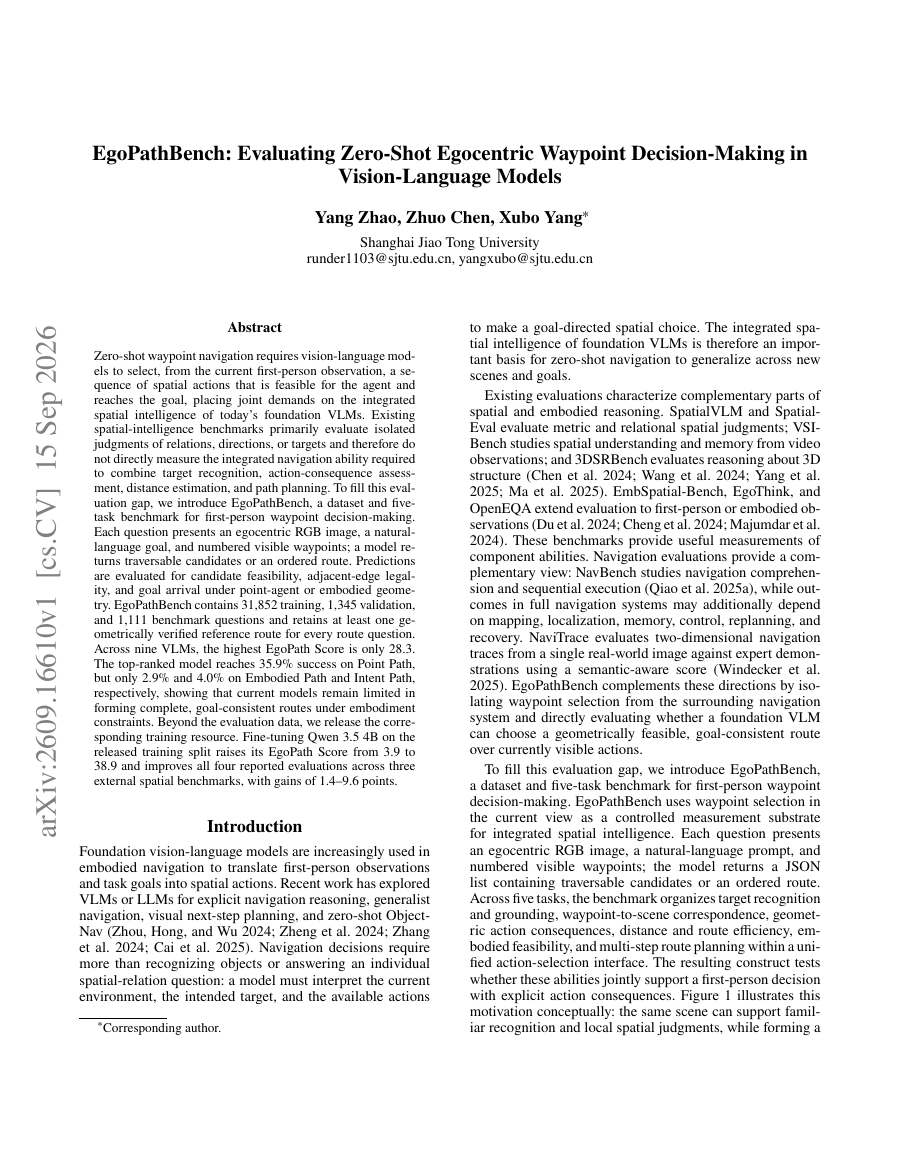
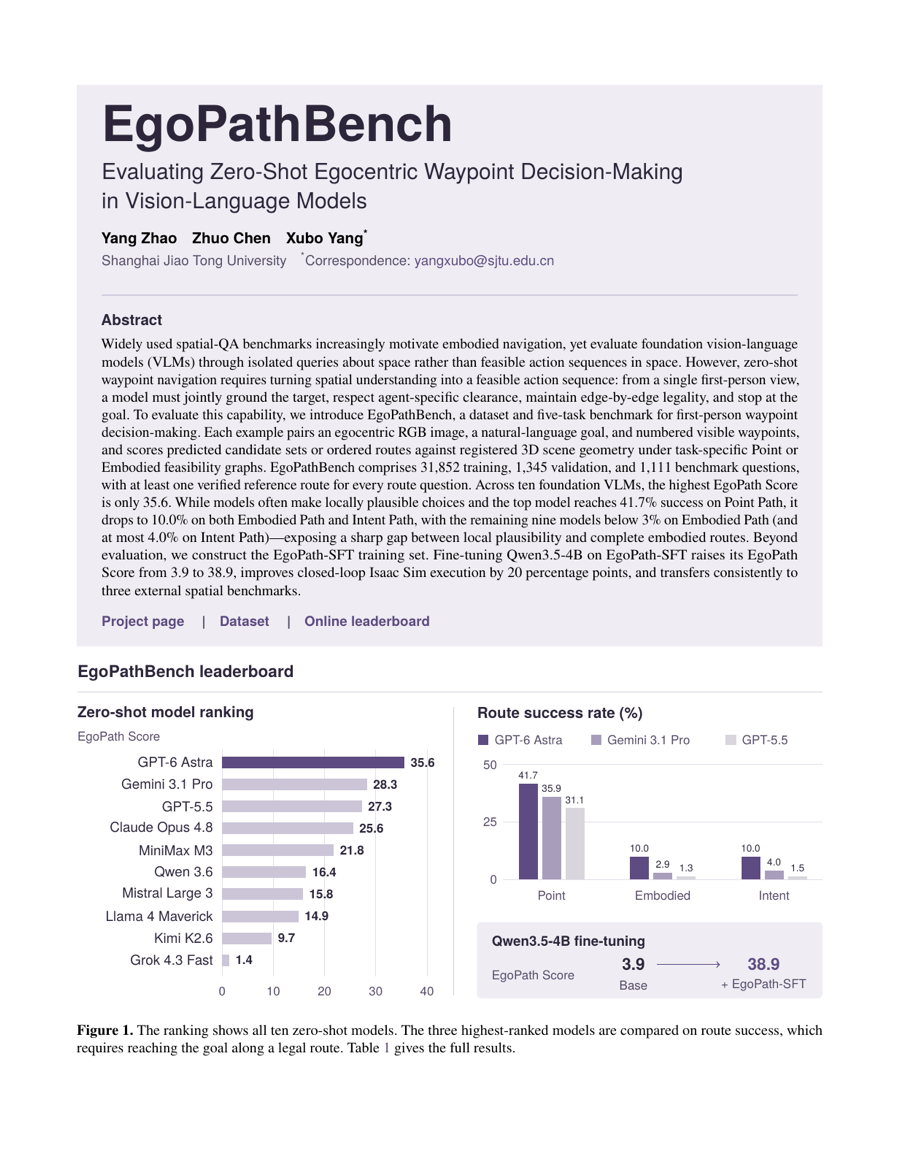
更新主页论文信息与 EmbodiedStudio 项目入口

diff --git a/site/index.html b/site/index.html
@@ -13,7 +13,7 @@
   <title>赵阳 Yang Zhao · 学术主页</title>
   <link rel="icon" href="assets/favicon.svg" type="image/svg+xml">
   <script src="theme.js?v=20261015"></script>
-  <link rel="stylesheet" href="styles.css?v=embodiedstudio-20261124">
+  <link rel="stylesheet" href="styles.css?v=publications-20261124">
   <noscript><style>#spatial-canvas,.scene-views,.scene-controls,#scene-hint,.scene-disclosure,.language-toggle,.citation-button{display:none}.scene-fallback{display:block;width:100%;height:220px;object-fit:contain}</style></noscript>
   <script src="script.js?v=living-folio-20261028" defer></script>
   <script src="motion.js?v=20261028" defer></script>
@@ -88,11 +88,11 @@
         </a>
         <div class="paper-content">
           <div class="paper-meta"><span class="paper-badge" data-zh="arXiv · 待公开" data-en="arXiv · Awaiting announcement">arXiv · 待公开</span><span data-zh="具身仿真 · 场景生成" data-en="EMBODIED SIMULATION · SCENE GENERATION">具身仿真 · 场景生成</span></div>
-          <h3><a href="https://embodiedstudio.github.io/?view=paper" target="_blank" rel="noopener noreferrer">EmbodiedStudio: A Task-Driven Simulation Generation Platform for Embodied Learning and Evaluation</a></h3>
+          <h3><a href="https://embodiedstudio.github.io/" target="_blank" rel="noopener noreferrer">EmbodiedStudio: A Task-Driven Simulation Generation Platform for Embodied Learning and Evaluation</a></h3>
           <p class="authors"><strong>Yang Zhao</strong>, Xubo Yang</p>
           <p class="paper-description" data-zh="从自然语言任务生成可交互的仿真环境，在仿真反馈下联合编写场景、任务、机器人行为与评分程序，并记录可回放的执行轨迹。" data-en="A task-driven platform that uses simulation feedback to jointly generate interactive scenes, task definitions, robot behaviors, and scoring programs, while recording replayable robot trajectories.">从自然语言任务生成可交互的仿真环境，在仿真反馈下联合编写场景、任务、机器人行为与评分程序，并记录可回放的执行轨迹。</p>
           <div class="paper-links">
-            <a href="https://embodiedstudio.github.io/?view=paper" target="_blank" rel="noopener noreferrer"><span data-zh="项目主页" data-en="Project">项目主页</span></a>
+            <a href="https://embodiedstudio.github.io/" target="_blank" rel="noopener noreferrer"><span data-zh="项目主页" data-en="Project">项目主页</span></a>
             <a href="https://embodiedstudio.github.io/?view=paper#walkthrough" target="_blank" rel="noopener noreferrer"><span data-zh="讲解视频" data-en="Walkthrough">讲解视频</span></a>
             <a href="https://github.com/Runder-sun/EmbodiedStudio" target="_blank" rel="noopener noreferrer"><span data-zh="代码" data-en="Code">代码</span></a>
           </div>
@@ -100,18 +100,19 @@
       </article>
 
       <article class="paper" id="paper-ego">
-        <a class="paper-visual ego-visual" href="assets/egopathbench-first-page.png" target="_blank" rel="noopener noreferrer" aria-label="查看 EgoPathBench 论文首页大图" data-label-zh="查看 EgoPathBench 论文首页大图" data-label-en="View the full-size first page of EgoPathBench">
-          <div class="paper-image-wrap"><img src="assets/egopathbench-first-page.png" alt="EgoPathBench 论文完整首页" data-label-zh="EgoPathBench 论文完整首页" data-label-en="Complete first page of the EgoPathBench paper" width="900" height="1165" loading="lazy"></div>
+        <a class="paper-visual ego-visual" href="assets/egopathbench-first-page.png?v=2" target="_blank" rel="noopener noreferrer" aria-label="查看 EgoPathBench 论文首页大图" data-label-zh="查看 EgoPathBench 论文首页大图" data-label-en="View the full-size first page of EgoPathBench">
+          <div class="paper-image-wrap"><img src="assets/egopathbench-first-page.png?v=2" alt="EgoPathBench 论文完整首页" data-label-zh="EgoPathBench 论文完整首页" data-label-en="Complete first page of the EgoPathBench paper" width="900" height="1165" loading="lazy"></div>
           <div class="image-caption"><span data-zh="论文首页 · 放大" data-en="First page · Zoom">论文首页 · 放大</span><span aria-hidden="true">↗</span></div>
         </a>
         <div class="paper-content">
           <div class="paper-meta"><span class="paper-badge">arXiv 2026</span><span data-zh="具身导航 · 评测基准" data-en="EMBODIED NAVIGATION · BENCHMARK">具身导航 · 评测基准</span></div>
           <h3><a href="https://egopathbench.github.io/EgoPathBench/" target="_blank" rel="noopener noreferrer">EgoPathBench: Evaluating Zero-Shot Egocentric Waypoint Decision-Making in Vision-Language Models</a></h3>
           <p class="authors"><strong>Yang Zhao</strong>, Zhuo Chen, Xubo Yang</p>
-          <p class="paper-description" data-zh="从第一视角图像出发，评估视觉语言模型的路径点决策能力，连接目标识别、空间推理与具身约束下的路径规划。" data-en="A benchmark for first-person waypoint decision-making, connecting goal recognition, spatial reasoning, and path planning under embodiment constraints.">从第一视角图像出发，评估视觉语言模型的路径点决策能力，连接目标识别、空间推理与具身约束下的路径规划。</p>
+          <p class="paper-description" data-zh="用单张第一视角图像和三维场景几何，在 1,111 道题上评估十个视觉语言模型的路径点决策。排名第一的模型在点模型路径上的成功率为 41.7%，在具身路径上降至 10.0%。" data-en="A 1,111-question benchmark that uses single egocentric images and 3D scene geometry to evaluate waypoint decisions across ten vision-language models. The top-ranked model reaches 41.7% success on Point Path and 10.0% on Embodied Path.">用单张第一视角图像和三维场景几何，在 1,111 道题上评估十个视觉语言模型的路径点决策。排名第一的模型在点模型路径上的成功率为 41.7%，在具身路径上降至 10.0%。</p>
           <div class="paper-links">
             <a href="https://egopathbench.github.io/EgoPathBench/" target="_blank" rel="noopener noreferrer"><span data-zh="项目主页" data-en="Project">项目主页</span></a>
             <a href="https://arxiv.org/abs/2609.16610" target="_blank" rel="noopener noreferrer"><span data-zh="论文" data-en="Paper">论文</span></a>
+            <a href="https://egopathbench.github.io/EgoPathBench/#leaderboard" target="_blank" rel="noopener noreferrer"><span data-zh="榜单" data-en="Leaderboard">榜单</span></a>
             <a href="https://github.com/EgoPathBench/EgoPathBench" target="_blank" rel="noopener noreferrer"><span data-zh="代码" data-en="Code">代码</span></a>
             <button class="citation-button" data-paper="ego" type="button"><span data-zh="引用" data-en="Cite">引用</span> <span aria-hidden="true">“ ”</span></button>
           </div>
@@ -124,7 +125,7 @@
           <div class="image-caption"><span data-zh="论文首页 · 放大" data-en="First page · Zoom">论文首页 · 放大</span><span aria-hidden="true">↗</span></div>
         </a>
         <div class="paper-content">
-          <div class="paper-meta"><span class="paper-badge">ACM MM 2026 <strong>Oral</strong></span><span data-zh="三维场景生成 · 强化学习" data-en="3D SCENE GENERATION · REINFORCEMENT LEARNING">三维场景生成 · 强化学习</span></div>
+          <div class="paper-meta"><span class="paper-badge">ACM MM 2026 <strong>Oral</strong></span><a class="paper-award" href="https://2026.acmmm.org/site/awards.html" target="_blank" rel="noopener noreferrer" data-zh="杰出论文奖（投稿约前 1%）" data-en="Outstanding Paper Award (≈ Top 1%)">杰出论文奖（投稿约前 1%）</a><span data-zh="三维场景生成 · 强化学习" data-en="3D SCENE GENERATION · REINFORCEMENT LEARNING">三维场景生成 · 强化学习</span></div>
           <h3><a href="https://scenerevis.github.io/" target="_blank" rel="noopener noreferrer">SceneReVis: A Self-Reflective Vision-Grounded Framework for 3D Indoor Scene Synthesis via Multi-Turn RL</a></h3>
           <p class="authors"><strong>Yang Zhao</strong>, Shizhao Sun, Meisheng Zhang, Yingdong Shi, Xubo Yang, Jiang Bian</p>
           <p class="paper-description" data-zh="让模型在生成中观察、反思与修正。通过视觉反馈和多轮强化学习，逐步构建空间布局合理的三维室内场景。" data-en="A vision-grounded framework that observes, reflects, and revises, using multi-turn reinforcement learning to iteratively build coherent 3D indoor scenes.">让模型在生成中观察、反思与修正。通过视觉反馈和多轮强化学习，逐步构建空间布局合理的三维室内场景。</p>

diff --git a/site/styles.css b/site/styles.css
@@ -146,7 +146,9 @@ h1 { display: flex; flex-wrap: wrap; align-items: baseline; gap: 22px; font-fami
 .image-caption { padding: 11px 0 0; display: flex; justify-content: space-between; align-items: center; font-size: 10px; letter-spacing: .04em; color: var(--muted); }
 .paper-meta { display: flex; align-items: center; flex-wrap: wrap; gap: 14px; color: var(--muted); font-size: 11px; letter-spacing: .02em; margin-bottom: 12px; }
 .paper-badge { color: var(--ink); font-size: 12px; letter-spacing: .02em; }
-.paper-badge strong { margin-left: 9px; padding: 2px 7px; border: 1px solid var(--detail-line); color: var(--accent); background: var(--detail-light); font-size: 11px; font-weight: 600; }
+.paper-badge strong, .paper-award { padding: 2px 7px; border: 1px solid var(--detail-line); color: var(--accent); background: var(--detail-light); font-size: 11px; font-weight: 600; }
+.paper-badge strong { margin-left: 9px; }
+.paper-award:hover { border-color: var(--accent); }
 .paper h3 { font-family: var(--serif); font-size: 25px; line-height: 1.35; font-weight: 400; letter-spacing: -.2px; }
 .paper h3 a:hover { color: var(--accent); }
 .authors { color: var(--muted); font-size: 13px; line-height: 1.8; margin-top: 11px; }
